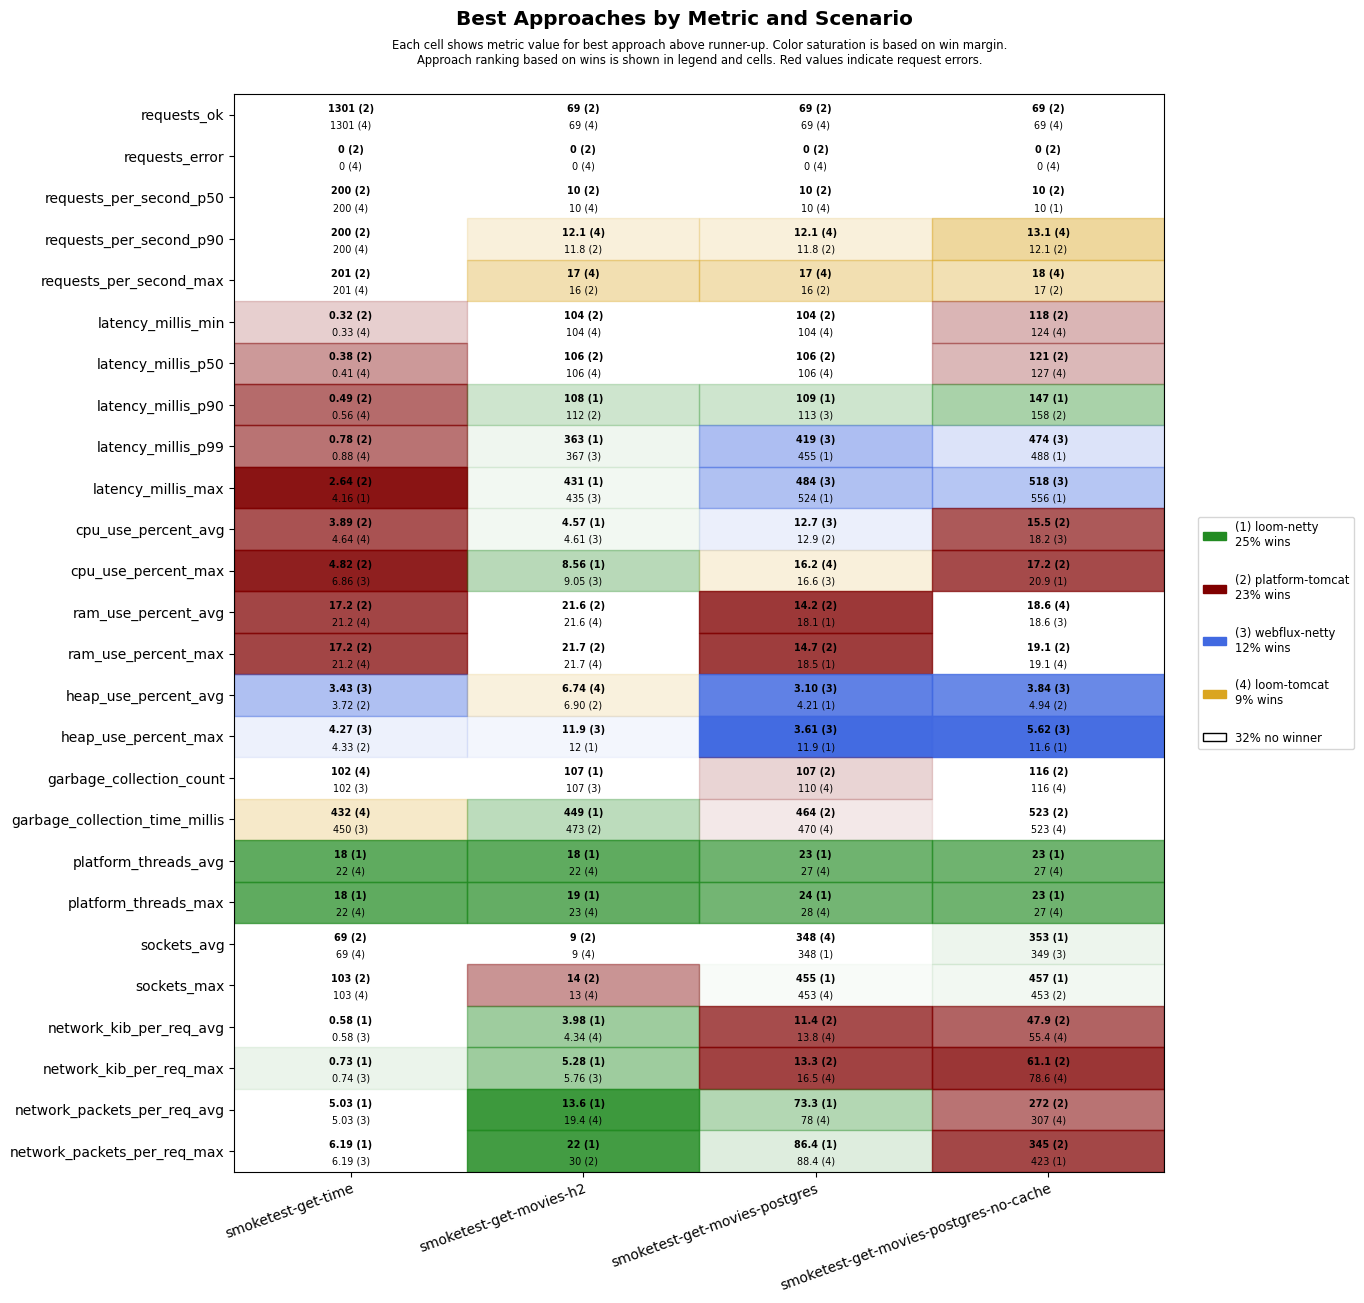
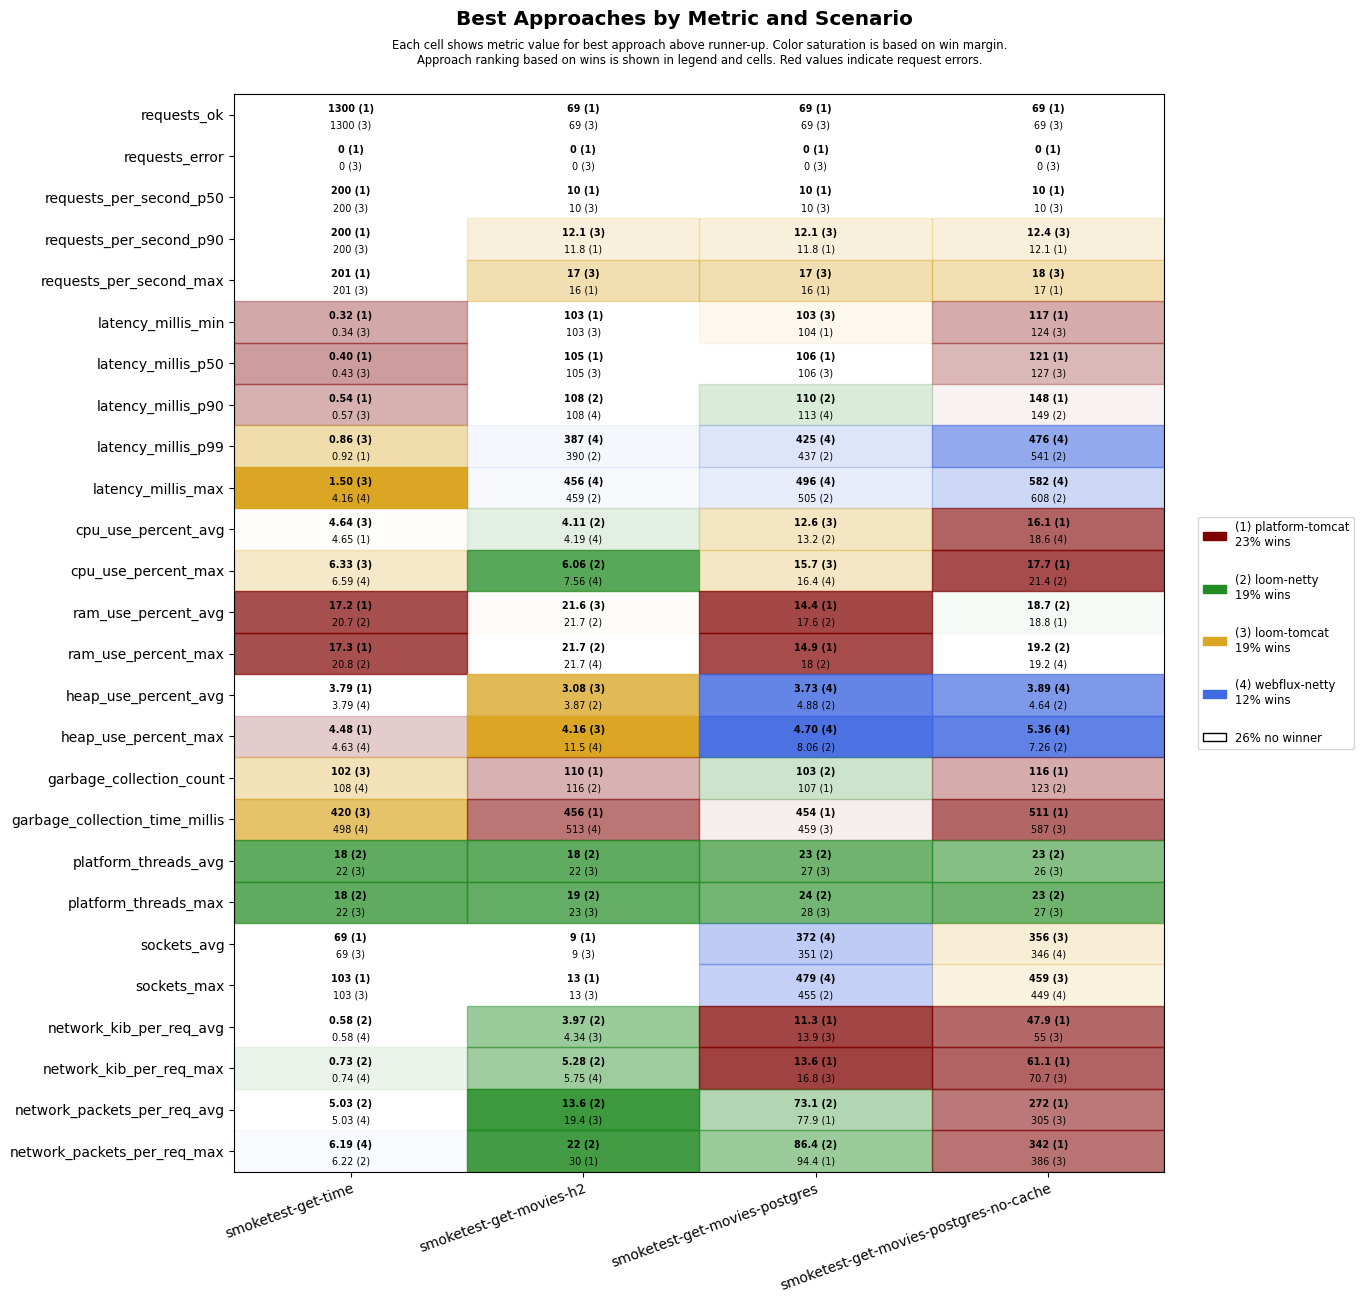
Apply automatic changes

diff --git a/results/ci/scenarios-smoketest/ubuntu-24.04/java-21/results.md b/results/ci/scenarios-smoketest/ubuntu-24.04/java-21/results.md
@@ -4,23 +4,23 @@
 
 | **Name**                | **Value** |
 |-------------------------|-----------|
-| **Start (UTC)** | 2024-10-20 09:18:37 |
-| **End (UTC)** | 2024-10-20 09:24:07 |
-| **Duration (hh:mm:ss)** | 00:05:30 |
+| **Start (UTC)** | 2024-11-22 16:06:52 |
+| **End (UTC)** | 2024-11-22 16:12:29 |
+| **Duration (hh:mm:ss)** | 00:05:37 |
 
 ## System Specs
 
 | **Name**                | **Value** |
 |-------------------------|-----------|
 | **Java** | OpenJDK 64-Bit Server VM Corretto-21.0.5.11.1 (build 21.0.5+11-LTS, mixed mode, sharing) |
-| **Spring Boot** | 3.3.4 |
+| **Spring Boot** | 3.4.0 |
 | **Python** | 3.12.3 |
 | **OS** | Ubuntu 24.04.1 LTS |
-| **Kernel** | 6.8.0-1015-azure |
+| **Kernel** | 6.8.0-1017-azure |
 | **CPU** | AMD EPYC 7763 64-Core Processor |
 | **CPU Cores** | 4 |
 | **RAM** | 15Gi total, 13Gi available |
-| **Disk** | 159G total, 106G available |
+| **Disk** | 159G total, 105G available |
 
 ## Scenarios
 
